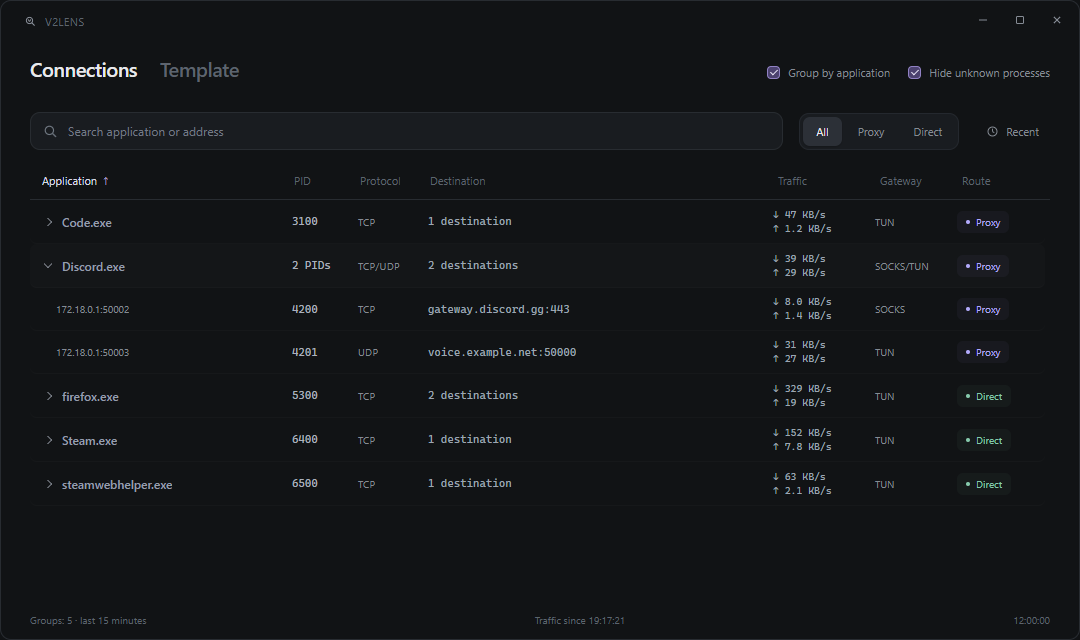
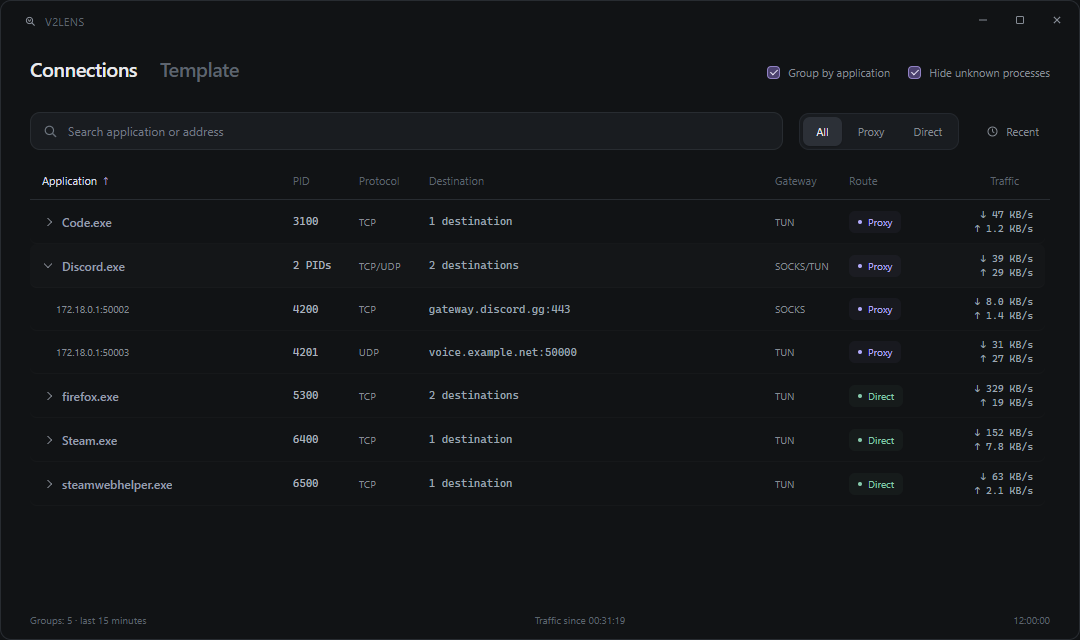
Group connection routing columns and align traffic

diff --git a/src/v2lens/resources/panel.html b/src/v2lens/resources/panel.html
@@ -79,10 +79,11 @@
   .recent[aria-pressed="true"] { color:var(--text); background:#23272f; border-color:#343944; }
   .recent svg { width:13px; height:13px; }
   .table { display:flex; flex:1; min-height:0; flex-direction:column; }
-  .columns,.row { display:grid; grid-template-columns:minmax(110px,1fr) 54px 58px minmax(130px,1.4fr) 90px 70px 76px; gap:12px; align-items:center; }
-  .columns { padding:0 12px 11px; color:var(--faint); font-size:11px; border-bottom:1px solid var(--edge); user-select:none; }
+  .columns,.row { display:grid; grid-template-columns:minmax(140px,1fr) 54px 58px minmax(160px,1.4fr) 62px 76px 96px; gap:12px; align-items:center; }
+  .columns { padding:0 17px 11px 12px; color:var(--faint); font-size:11px; border-bottom:1px solid var(--edge); user-select:none; }
   .sort-heading { display:flex; align-items:center; gap:6px; padding:0; border:0; background:transparent; color:inherit; font-size:inherit; text-align:left; }
   .sort-heading:hover { color:#bfc6d2; }
+  [data-sort-cell="traffic"] .sort-heading { width:100%; justify-content:flex-end; }
   [aria-sort="ascending"] .sort-heading,[aria-sort="descending"] .sort-heading { color:#d7dce6; }
   .sort-arrow { display:inline-block; min-width:8px; font-size:12px; color:#a89fda; }
   .rows { overflow-y:auto; overflow-x:hidden; flex:1; min-height:0; scrollbar-gutter:stable; overflow-anchor:none; padding-bottom:10px; }
@@ -108,7 +109,7 @@
   .target { display:flex; align-items:center; gap:8px; min-width:0; }
   .destination { min-width:0; overflow:hidden; text-overflow:ellipsis; white-space:nowrap; font-size:11px; color:#9da5b1; font-family:"Cascadia Code",Consolas,monospace; user-select:text; }
   .count { color:#626a76; font-size:10px; flex-shrink:0; }
-  .traffic { color:#9da5b1; font:10px "Cascadia Code",Consolas,monospace; font-variant-numeric:tabular-nums; white-space:nowrap; }
+  .traffic { color:#9da5b1; font:10px "Cascadia Code",Consolas,monospace; font-variant-numeric:tabular-nums; white-space:nowrap; text-align:right; }
   .traffic span { display:block; line-height:14px; }
   .traffic.unavailable { color:var(--faint); }
   .traffic-enable { color:#b2aafa; background:none; border:0; padding:0; font-size:10px; }
@@ -124,7 +125,7 @@
   ::-webkit-scrollbar-track { background:transparent; }
   ::-webkit-scrollbar-thumb { background:#353b45; border-radius:8px; }
   ::-webkit-scrollbar-thumb:hover { background:#525b68; }
-  @media(max-width:760px) { main { padding-left:18px; padding-right:18px; } .tools { gap:8px; } .segments button { padding:0 8px; } .columns,.row { grid-template-columns:minmax(95px,1fr) 43px 49px minmax(100px,1.2fr) 70px 56px 63px; gap:8px; } .recent { padding:0 5px; gap:5px; } .traffic { font-size:9px; } }
+  @media(max-width:920px) { main { padding-left:18px; padding-right:18px; } .tools { gap:8px; } .segments button { padding:0 8px; } .columns,.row { grid-template-columns:minmax(95px,1fr) 43px 49px minmax(100px,1.2fr) 50px 63px 70px; gap:8px; } .recent { padding:0 5px; gap:5px; } .traffic,.gateway { font-size:9px; } }
   @media(prefers-reduced-motion:no-preference) { button,.search { transition:background .12s,border-color .12s; } }
 </style>
 </head>
@@ -161,9 +162,9 @@
         <span role="columnheader" title="Process ID recorded when the connection was identified. A dash means it is unknown.">PID</span>
         <span role="columnheader" data-sort-cell="protocol" aria-sort="none"><button class="sort-heading" data-sort="protocol" title="Sort by protocol">Protocol<span class="sort-arrow" aria-hidden="true"></span></button></span>
         <span role="columnheader">Destination</span>
-        <span role="columnheader" data-sort-cell="traffic" aria-sort="none"><button class="sort-heading" data-sort="traffic" title="Sort by current download and upload speed">Traffic<span class="sort-arrow" aria-hidden="true"></span></button></span>
         <span role="columnheader" data-sort-cell="gateway" aria-sort="none"><button class="sort-heading" data-sort="gateway" title="Sort by Xray inbound tag">Gateway<span class="sort-arrow" aria-hidden="true"></span></button></span>
         <span role="columnheader" data-sort-cell="route" aria-sort="none"><button class="sort-heading" data-sort="route" title="Sort by route">Route<span class="sort-arrow" aria-hidden="true"></span></button></span>
+        <span role="columnheader" data-sort-cell="traffic" aria-sort="none"><button class="sort-heading" data-sort="traffic" title="Sort by current download and upload speed">Traffic<span class="sort-arrow" aria-hidden="true"></span></button></span>
       </div>
       <div class="rows" id="rows" role="rowgroup"><div id="empty" class="empty" role="status">Waiting for new connections…</div></div>
     </section>
@@ -447,7 +448,7 @@ function render(activityUpdate=false,preserveOrder=false) {
       const target=node('div','target');
       target.append(node('span','destination'),node('span','count'));
       const badge=node('span','route'),pid=node('span','pid');
-      el.append(app,pid,node('span','protocol',r.protocol||'—'),target,node('span','traffic'),node('span','gateway'),badge);nodes.set(group.key,el);
+      el.append(app,pid,node('span','protocol',r.protocol||'—'),target,node('span','gateway'),badge,node('span','traffic'));nodes.set(group.key,el);
       for(const cell of el.children)cell.setAttribute('role','cell');
       el.addEventListener('click',()=>{if(el._toggleKey && !window.getSelection?.()?.toString())toggleGroup(el._toggleKey);});
       if(!reducedMotion && activityUpdate===true && group.depth===0 && (newTargets.has(group.key) || group.members?.some(g=>newTargets.has(g.key)))) {

diff --git a/.github/RELEASE_NOTES.md b/.github/RELEASE_NOTES.md
@@ -1,9 +1,9 @@
-Стрелки **Fold / Unfold** в JSON-редакторе теперь выровнены по центру строки. Текстовые символы заменены на небольшие SVG-иконки; сворачивание и подсветка блока при наведении работают как прежде.
+Столбцы соединений расположены в порядке **Application → PID → Protocol → Destination → Gateway → Route → Traffic**. Шлюз и маршрут находятся рядом, скорости выровнены по правому краю. Заголовки совпадают со строками с учётом скроллбара; компактная раскладка помогает столбцам помещаться в узком окне.
 
 **Обновление:** замените `V2Lens.exe` рядом с `v2rayN.exe`, сохранив `V2Lens-data`. Windows 10/11 x64, WebView2 Runtime. Python и Node.js для готового EXE не нужны.
 
 ---
 
-The JSON editor's **Fold / Unfold** arrows now use small SVG icons centered within each line. Folding and hover highlighting retain their existing behavior.
+Connection columns now follow **Application → PID → Protocol → Destination → Gateway → Route → Traffic**. Gateway and route sit together, speeds are right-aligned, and headers align with the scrollable rows. The compact layout activates earlier to fit narrower windows.
 
 Replace `V2Lens.exe` beside `v2rayN.exe` and keep `V2Lens-data`.

diff --git a/CHANGELOG.md b/CHANGELOG.md
@@ -1,5 +1,10 @@
 # Changelog
 
+## 0.2.5 — 2026-10-18
+
+- Столбцы соединений: Application → PID → Protocol → Destination → Gateway → Route → Traffic. Скорости выровнены по правому краю.
+- Заголовки выровнены со строками с учётом скроллбара; компактная раскладка включается раньше, чтобы столбцы помещались в узком окне.
+
 ## 0.2.4 — 2026-10-17
 
 - Стрелки Fold / Unfold заменены на SVG и выровнены по центру строки, независимо от метрик шрифта.
